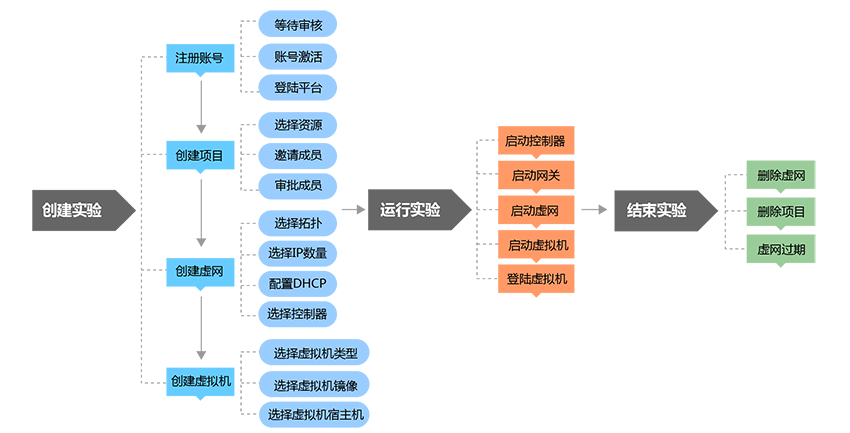
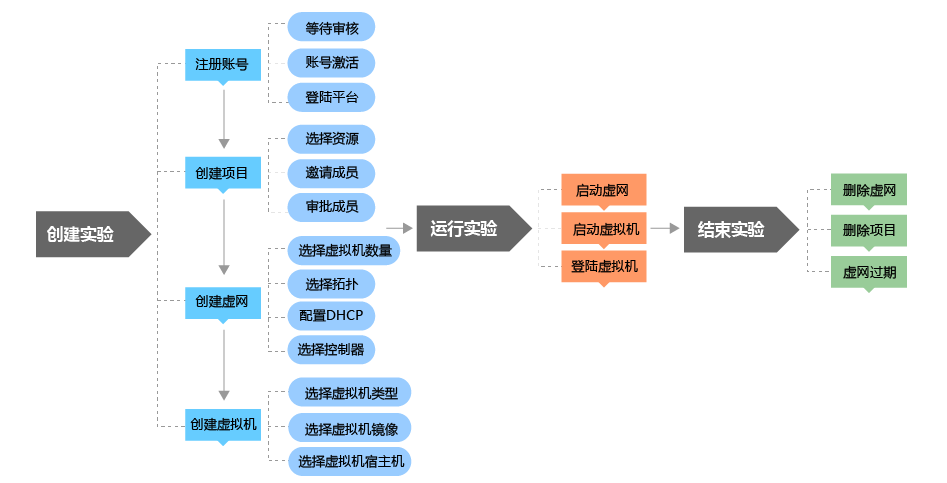
html renew

diff --git a/ccf/templates/help.html b/ccf/templates/help.html
@@ -25,7 +25,7 @@
               </section>
               <section id="help_project">
                 <h4><i class="icon-folder-close-alt"></i>什么是项目？</h4>
-                <p>项目是SDN创新实验平台中用于组织和进行创新研究试验的载体，它具有如下特点：</p>
+                <p>项目是SDN创新实验平台中用于组织开展研究试验的载体，它具有如下特点：</p>
                 <ul>
                     <li>项目由项目leader创建，项目leader一般为教授或高级研究人员、资深爱好者等，项目leader可以创建多个项目；</li>
                     <li>项目由多个实验以及研究人员组成，参与项目的研究人员可以是普通研究人员、学生、一般爱好者等，同时一个研究人员可以参与多个项目；</li>                    
@@ -33,9 +33,8 @@
               </section>
               <section id="help_slice">
                 <h4> <i class="icon-globe"></i>什么是虚网？</h4>
-                <p>虚网是SDN创新实验平台的项目中实验的最小独立载体，它具有如下特点：</p>
-                <ul>
-                    <li>虚网由项目成员创建，项目成员创建虚网的权限由项目leader授予；</li>
+                <p>虚网是项目中实验的最小独立载体，它具有如下特点：</p>
+                <ul>                 
                     <li>每个虚网对应着一个独立的实验；</li>  
                     <li>虚网由实验所需要的网络和计算资源组成；</li> 
                     <li>虚网之间的隔离，每个虚网创建者只能使用自己虚网内部的资源；</li>                   
@@ -50,13 +49,12 @@
                         <ul>
                             <li>申请账号 → 等待审批 → 账号激活 → 登录SDN创新实验平台</li>
                             <li>创建项目 → 选择资源、邀请成员或审批申请成员/申请加入项目</li>  
-                            <li>创建虚网 → 选择虚网拓扑 → 选择IP数量 → 服务配置（选择是否配置DHCP服务、控制器类型等） → 虚拟机创建（选择虚拟机类型和镜像以及宿主机）</li> 
-                            <li>虚网之间的隔离，每个虚网创建者只能使用自己虚网内部的资源；</li>                   
+                            <li>创建虚网 → 选择虚拟机数量 → 选择虚网拓扑 → 服务配置（选择是否配置DHCP服务、控制器类型等） → 虚拟机创建（选择虚拟机类型和镜像以及宿主机）</li>                                     
                         </ul> 
                     </li>
                     <li>运行实验
                         <ul>
-                            <li>启动虚网中的控制器、网关 → 启动虚网 → 启动虚拟机</li>
+                            <li>启动虚网 → 启动虚拟机</li>
                             <li>登陆虚拟机 → 部署实验</li>                                           
                         </ul> 
                     </li>

diff --git a/ccf/static/css/style_defined.css b/ccf/static/css/style_defined.css
@@ -7513,3 +7513,6 @@ span[name="serverInfo"] {
 .port_mean .port_blue i {
   color: #99ccff;
 }
+.main2 .tuopu_detail {
+  padding-top: 0;
+}

diff --git a/ccf/static/less/style_defined.less b/ccf/static/less/style_defined.less
@@ -1774,3 +1774,6 @@ span[name="serverInfo"] {
 .modal_poptip_defined {
     
 }
+.main2 .tuopu_detail {
+    padding-top:0;
+}
